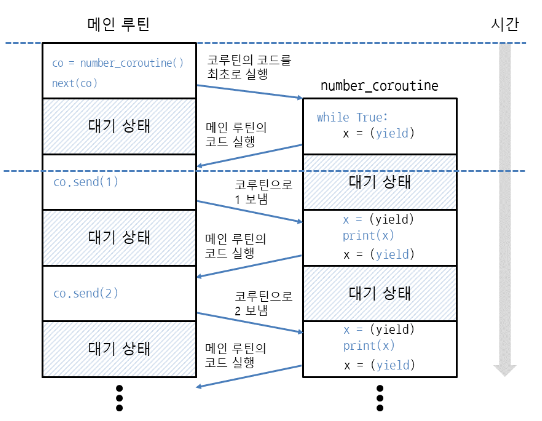
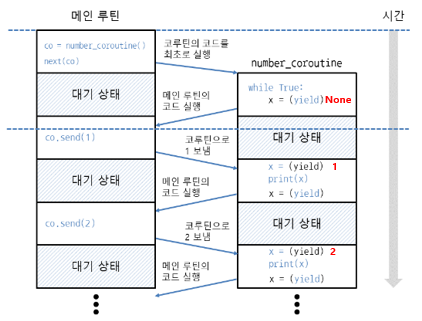
'init'

Changed region(s): [[0.0, 0.0312, 0.9858, 0.9969], [0.154, 0.81, 0.2773, 0.8411]]

diff --git a/docs/Python/Library/itertools.md b/docs/Python/Library/itertools.md
@@ -44,23 +44,24 @@ for item in itertools.accumulate([1, 2, 3, 4], multiply):
 ```
 
 
+## iterable & iterator   
 
-이터레이터를 만들기 전에 먼저 `반복 가능한 객체(iterable)`에 대해 알아보겠습니다.    
-반복 가능한 객체는 말 그대로 반복할 수 있는 객체인데 우리가 흔히 사용하는 문자열, 리스트, 딕셔너리, 세트, range객체가 반복 가능한 객체입니다. 즉, 요소가 여러 개 들어있고, 한 번에 하나씩 꺼낼 수 있는 객체입니다.
-객체가 반복 가능한 객체인지 알아보는 방법은 객체에 `__iter__` 메서드가 들어있는지 확인해보면 됩니다. dir(객체)
+이터레이터를 만들기 전에 먼저 `반복 가능한 객체(iterable)`에 대해 알아보겠습니다.      
+반복 가능한 객체는 말 그대로 반복할 수 있는 객체인데 우리가 흔히 사용하는 문자열, 리스트, 딕셔너리, 세트, range객체가 반복 가능한 객체입니다. 즉, 요소가 여러 개 들어있고, 한 번에 하나씩 꺼낼 수 있는 객체입니다.   
+객체가 반복 가능한 객체인지 알아보는 방법은 객체에 `__iter__` 메서드가 들어있는지 확인해보면 됩니다. dir(객체)   
 
-`반복 가능한 객체(iterable)`는 요소를 한 번에 하나씩 가져올 수 있는 객체이고, `이터레이터(iterator)`는 `__next__` 메서드를 사용해서 차례대로 값을 꺼낼 수 있는 객체입니다. `반복 가능한 객체(iterable)`와 `이터레이터(iterator)`는 별개의 객체이므로 둘은 구분해야 합니다. 
+`반복 가능한 객체(iterable)`는 요소를 한 번에 하나씩 가져올 수 있는 객체이고, `이터레이터(iterator)`는 `__next__` 메서드를 사용해서 차례대로 값을 꺼낼 수 있는 객체입니다. `반복 가능한 객체(iterable)`와 `이터레이터(iterator)`는 별개의 객체이므로 둘은 구분해야 합니다.    
 
 이처럼 `반복 가능한 객체`는 `__iter__` 메서드로 `이터레이터`를 얻고, `이터레이터`의 `__next__` 메서드로 반복합니다.
 
 
 ```python
-L = ['a','b','c']
-it = L.__iter__()
-print(it.__next__()) # a
-print(it.__next__()) # b
-print(it.__next__()) # c
-print(it.__next__()) # StopIteration 예외를 발생
+L = ['a', 'b', 'c']
+it = L.__iter__()  # iter(L)
+print(it.__next__())  # a
+print(it.__next__())  # b
+print(it.__next__())  # c
+# print(it.__next__())  # StopIteration 예외를 발생
 ```
 리스트, 튜플, range, 문자열은 반복 가능한 객체이면서 시퀀스 객체입니다.    
 하지만, 딕셔너리와 세트는 반복 가능한 객체이지만 시퀀스 객체는 아닙니다. 
@@ -69,8 +70,7 @@ print(it.__next__()) # StopIteration 예외를 발생
 
 ## 이터레이터 만들기
 
-이제 `__iter__`, `__next__` 메서드를 구현해서 직접 이터레이터를 만들어보겠습니다.    
-간단하게 range(횟수)처럼 동작하는 이터레이터입니다.
+이제 `__iter__`, `__next__` 메서드를 구현해서 직접 이터레이터를 만들어보겠습니다.   
 
 ```python
 class 이터레이터이름:
@@ -81,6 +81,8 @@ class 이터레이터이름:
     def __next__(self):
         코드
 ```
+
+간단하게 range(횟수)처럼 동작하는 이터레이터입니다.
 
 ```python
 class Counter:
@@ -120,6 +122,8 @@ class 이터레이터이름:
     def __getitem__(self, 인덱스):
         코드
 ```
+
+다음 코드 추가   
 
 ```python
     def __getitem__(self, index):
@@ -198,7 +202,7 @@ while True:
        break
 ```
 
-심화 학습
+### 심화 학습 예제
 
 ```python
 class TimeIterator:
@@ -256,15 +260,16 @@ def number_generator():
     yield 1
     yield 2
 
-g =  number_generator() 
-for i in g:
-    print(i, end = ' ') # 0 1 2
 
- 
-print(dir(g))   # __iter__, __next__ 존재
+g = number_generator()
+for i in g:
+    print(i, end=' ')  # 0 1 2
+
+print()
+print(dir(g))  # __iter__, __next__ 존재
 ```
 
-next 구현
+- next 구현
 
 ```python
 g = number_generator()
@@ -276,7 +281,9 @@ while True:
 ```
 
 ![Alt text](/assets/images/%ED%99%94%EB%A9%B4%20%EC%BA%A1%EC%B2%98%202023-01-15%20050230.png)
-이렇게 제너레이터는 함수를 끝내지 않은 상태에서 yield를 사용하여 값을 바깥으로 전달할 수 있습니다. 즉, return은 반환 즉시 함수가 끝나지만 yield는 잠시 함수 바깥의 코드가 실행되도록 양보하여 값을 가져가게 한 뒤 다시 제너레이터 안의 코드를 계속 실행하는 방식입니다. 
+
+- yield & return      
+이렇게 제너레이터는 함수를 끝내지 않은 상태에서 yield를 사용하여 값을 바깥으로 전달할 수 있습니다. 즉, `return`은 반환 즉시 함수가 끝나지만 `yield`는 잠시 함수 바깥의 코드가 실행되도록 양보하여 값을 가져가게 한 뒤 다시 제너레이터 안의 코드를 계속 실행하는 방식입니다. 
 
 {: .note}
 > 제너레이터와 return
@@ -336,7 +343,9 @@ for i in number_generator():
 ```
 
 - yield from 이용하여 생성 전달       
-    : yield from 반복가능한객체(이터레이터,제너레이터객체)
+    - yield from 반복가능한객체
+    - yield from 이터레이터
+    - yield from 제너레이터객체
 
 ```python
 def number_generator():
@@ -347,6 +356,7 @@ def number_generator():
 for i in number_generator():
     print(i)
 ```
+
 ```python
 def number_generator(stop):
     n = 0
@@ -390,8 +400,7 @@ def prime_number(start,stop):
 def prime_number_generator(start,stop):
     
     yield from prime_number(start,stop)
-    return 'StopIterator'    
-            
+          
 
 start, stop = map(int, input().split())
 
@@ -426,11 +435,11 @@ for i in g:
 ### 코루틴에 값 보내기
 
 코루틴은 제너레이터의 특별한 형태입니다.    
-제너레이터는 yield로 값을 발생시켰지만 코루틴은 `(yield)`로 값을 받아올 수 있습니다.  => 변수 = (yield)
-메인 프로시저에서 코루틴에 값을 보내면서 코드를 실행할 때는 `send 메서드`를 사용합니다 => 코루틴객체.send(값)
+제너레이터는 yield로 값을 발생시켰지만 코루틴은 `(yield)`로 값을 받아올 수 있습니다.  => 변수 = (yield)   
+메인 프로시저에서 코루틴에 값을 보내면서 코드를 실행할 때는 `send 메서드`를 사용합니다 => 코루틴객체.send(값)   
 
 [참조] next와 send의 차이를 살펴보면 next는 코루틴의 코드를 실행하지만 값을 보내지 않을 때 사용하고,    
-        send는 값을 보내면서 코루틴의 코드를 실행할 때 사용합니다.
+        send는 값을 보내면서 코루틴의 코드를 실행할 때 사용합니다.   
 
 ```python
 def number_coroutine():
@@ -439,13 +448,16 @@ def number_coroutine():
         print(x)
  
 co = number_coroutine()
-next(co)      # 코루틴 안의 yield까지 코드 실행(최초 실행)
+next(co)      # 코루틴 안의 yield까지 코드 실행(최초 실행) = co.send(None)
  
 co.send(1)    # 코루틴에 숫자 1을 보냄
 co.send(2)    # 코루틴에 숫자 2을 보냄
 co.send(3)    # 코루틴에 숫자 3을 보냄
 ```
 
+corotuine 진행
+최초 진입 - 첫 yield 까지
+이후 진행 - 데이터 받고 다음 yield까지
 ![Alt text](/assets/images/%ED%99%94%EB%A9%B4%20%EC%BA%A1%EC%B2%98%202023-01-15%20082158.png)
 
 {: .note}
